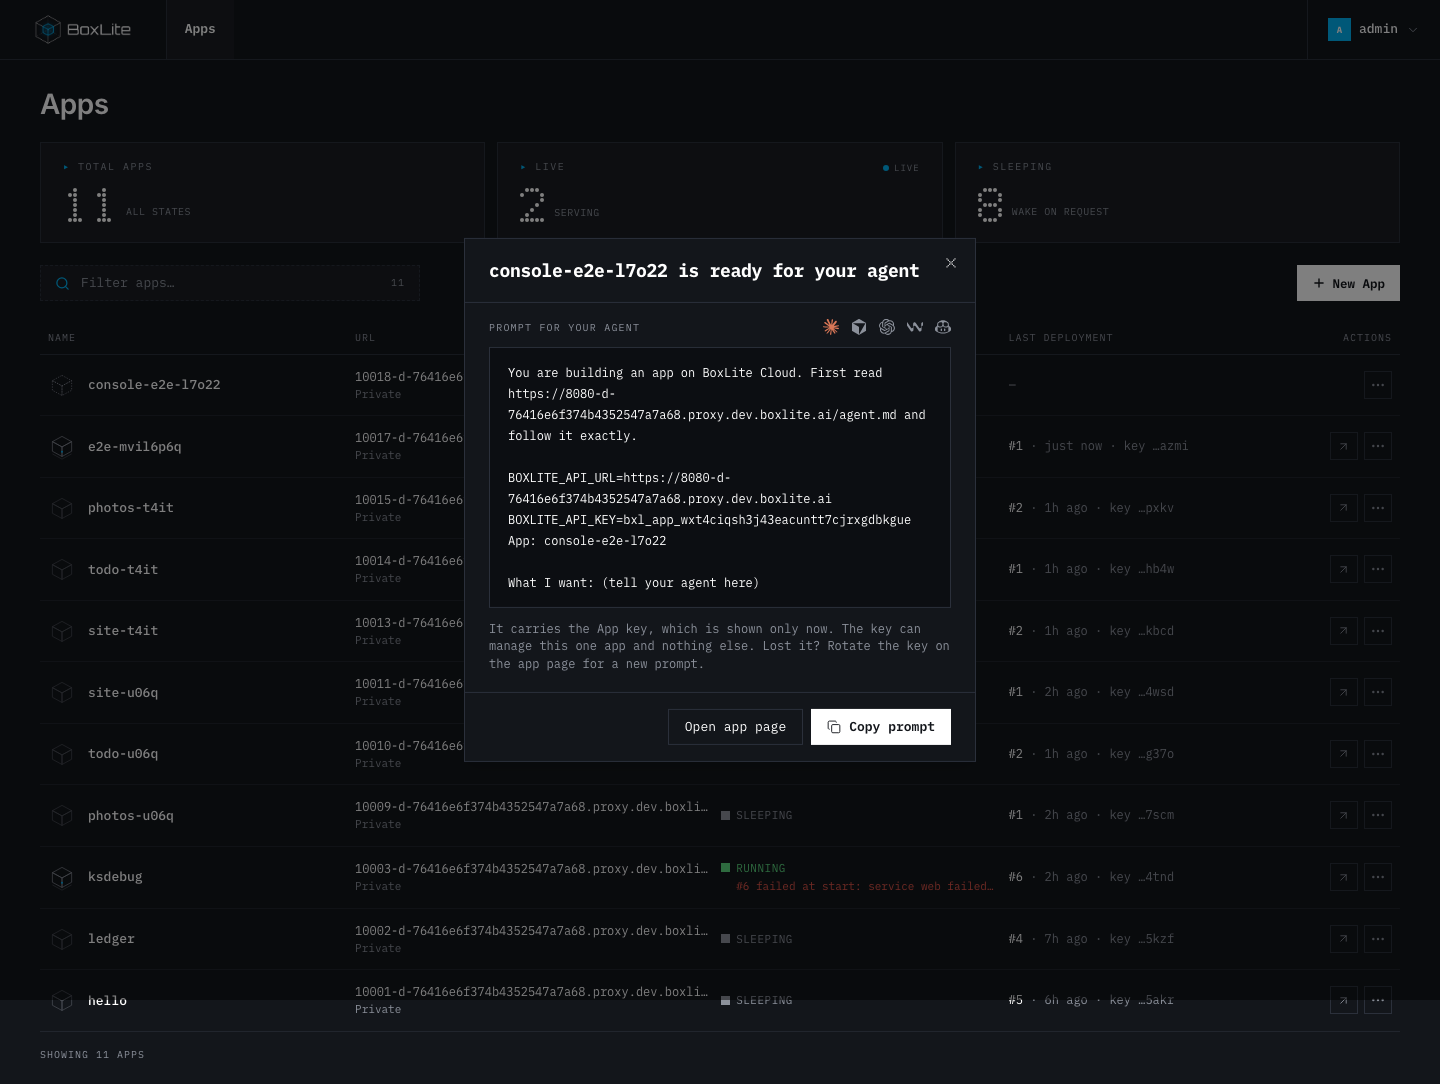
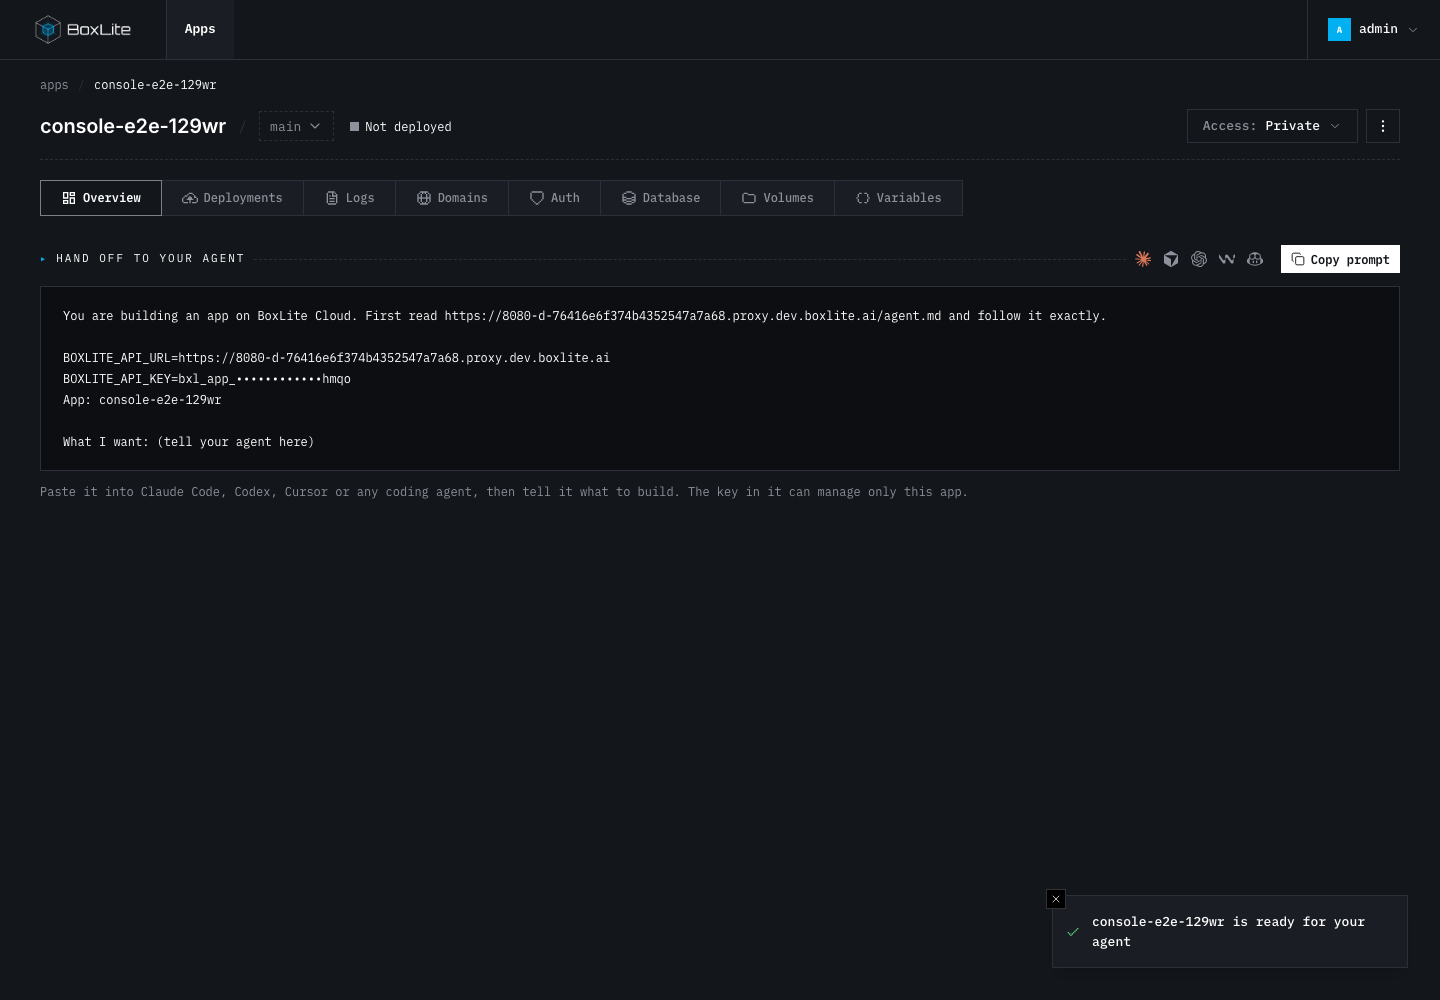
e2e: console spec follows the mock-faithful console; fidelity record
The console e2e now does what a user does on the restored pages: Copy prompt
for the working key, expand a service for its pid, Platform > system for detail
logs, View in Logs for a deployment, the method menu for the redirect URI, and a
single confirm for the restorable app delete. 21/21 on dev.

docs/console-fidelity.md records each page against the approved mock and why
any difference stays.

diff --git a/docs/console-fidelity.md b/docs/console-fidelity.md
@@ -1,0 +1,20 @@
+# Console fidelity to the approved mock
+
+The approved mock (boxlite repo commit `16c63234`, branch `micro-cloud-app`) is the spec for the console's
+layout and copy. Every page is compared side by side at 1440×1000 against it; the pairs are in
+`console-shots/pairs/now-*.png` (mock left, real right). A difference stays only if the row below says why.
+
+| page | matches the mock | remaining difference and why |
+|---|---|---|
+| App list | columns, status words, failure line under the status, row actions, middle-ellipsis URL | "Recently deleted" section under the list: App delete keeps data 7 days (PRD decision 8) and needs a restore |
+| Overview | screenshot hero (captured after go-live), URL, deployment card, compact services with Restart, schedules, 4 metric cards incl. signed-in users, handoff row | — |
+| Deployments | filter, status chips, what changed, by, when, Roll back on hover, failure line | Status filter says Live instead of Ready: the platform's word for a serving deployment |
+| Logs | toolbar, level and range chips, source chips with counts, day rule, row grid, detail panel | Renders the newest 200 lines with "Show older"; the mock had a short fixed list. Detail sources (build, access, system) sit behind a Platform menu |
+| Domains | BoxLite domain row with Primary, Your domains section with Add domain | Add domain is disabled with the reason: the preview platform serves apps on tunnel origins, which cannot take a custom domain. Change subdomain is absent for the same reason |
+| Auth | left rail, provider logos, users with Sign out and ⋯, blocked users struck through | — |
+| Database | left rail, tables with rows and schema, Browse in a side panel | — |
+| Volumes | one panel per volume: name · size · access, Browse files, where the app finds it, ids behind Details, files in a side panel | No "Make public" and no S3 keys: volumes are BoxLite Volumes mounted as folders (PRD decision), not buckets. No "All volumes" link: the standalone console has only Apps |
+| Variables | one-line intro, Copy from, Import .env, Reference a secret, Add variable, Set by BoxLite | — |
+| Shell | Apps in the top bar | The standalone console has no Boxes, Images, Volumes or Billing pages |
+
+Human copy never shows TOML or CLI commands; what an agent needs is behind "Copy instructions" / "Copy prompt".
